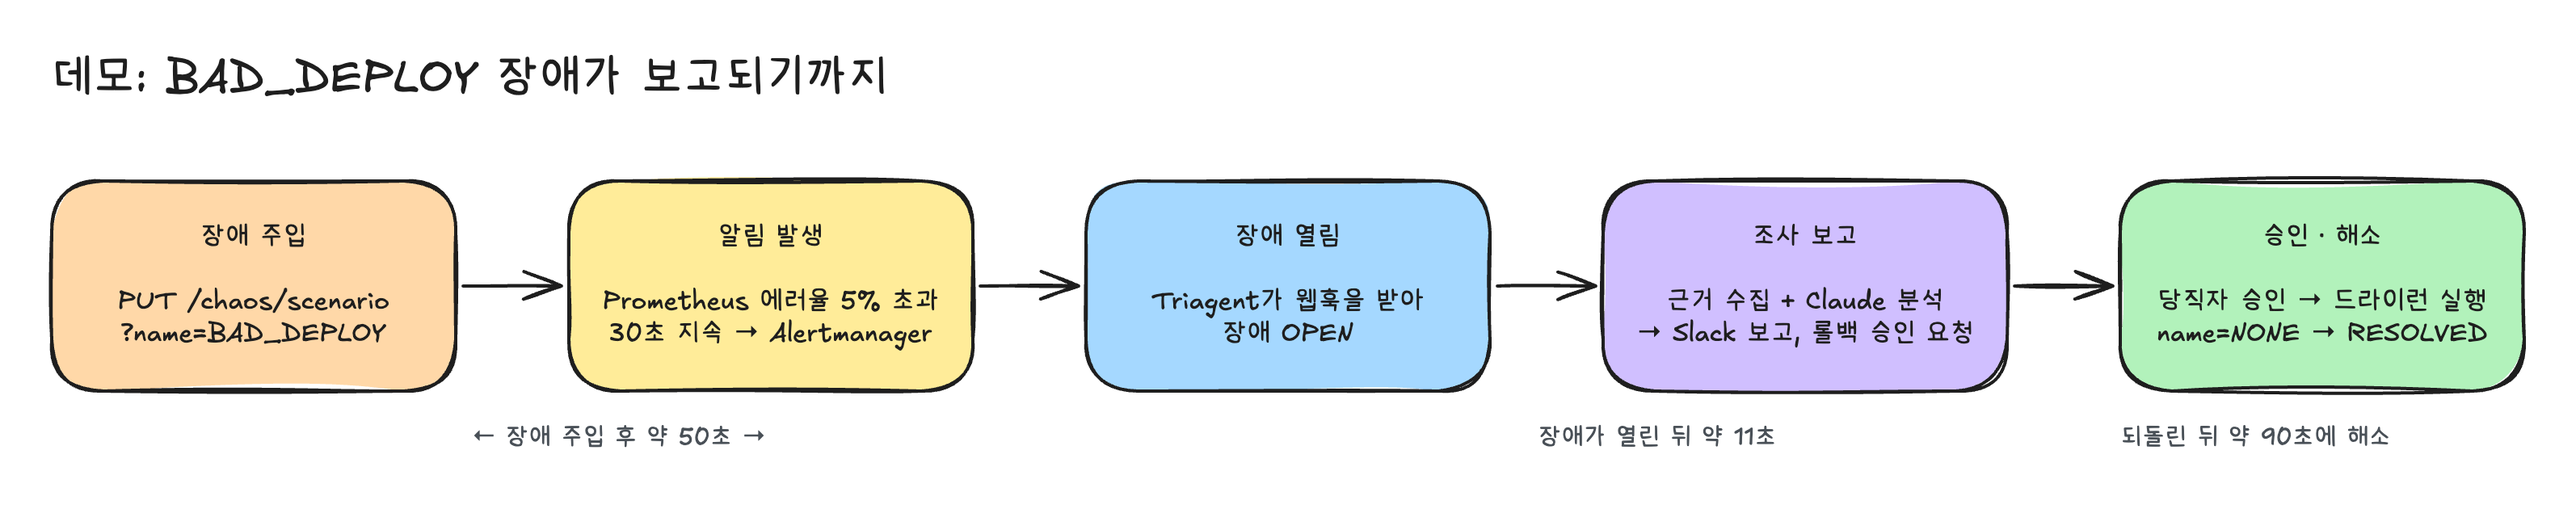
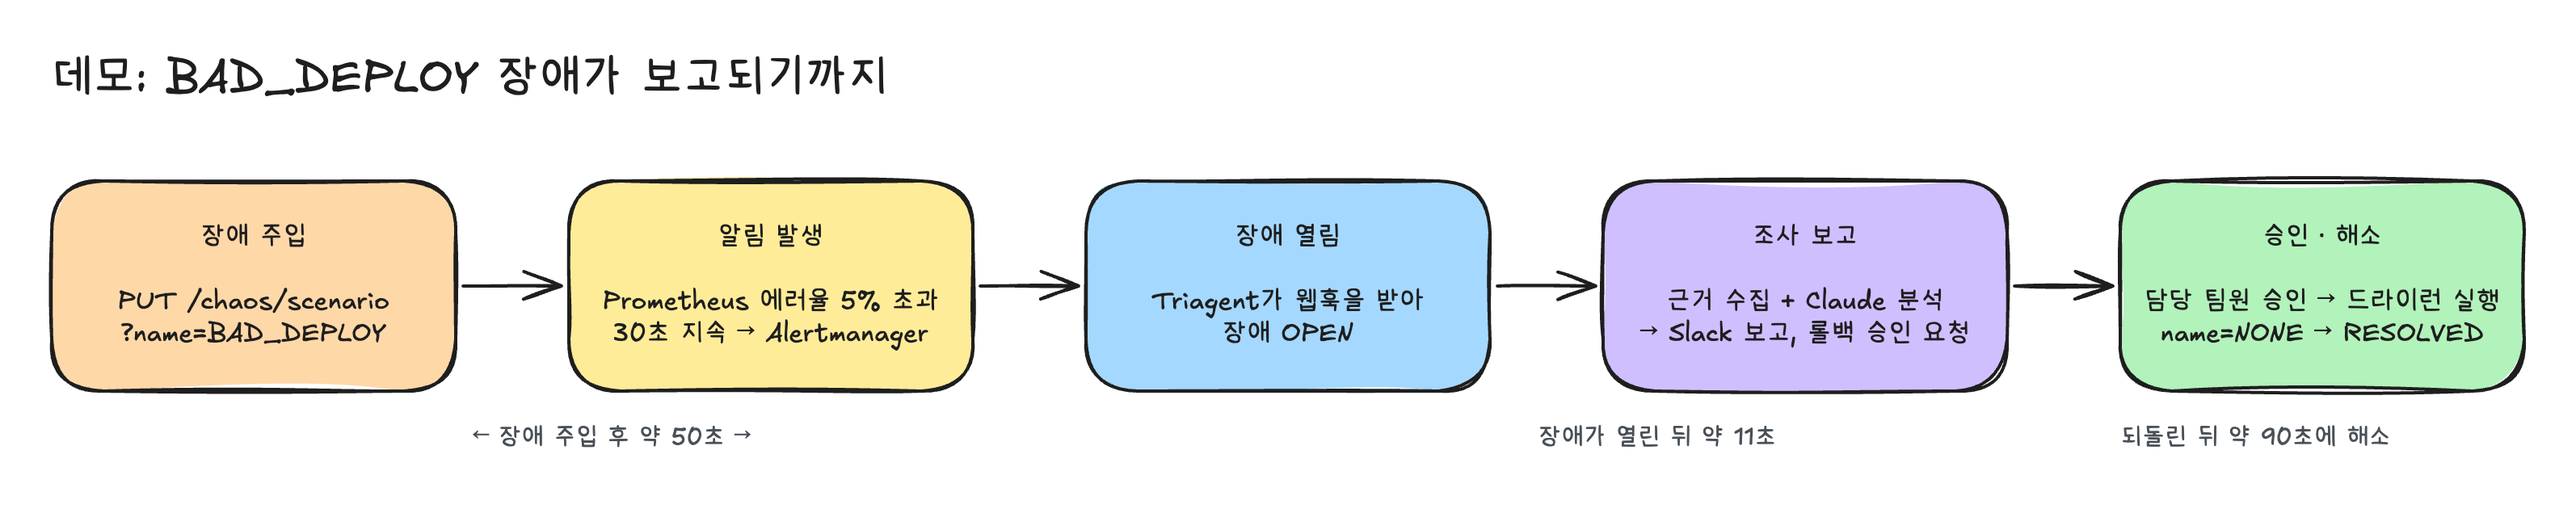
docs: 다이어그램 용어를 README와 맞추기
- 지문 → fingerprint, 당직자 → 담당 팀원, 조치 제안 도구 → 조치 제안 tool
- incident-flow의 장애 저장 상자를 늘어난 문구에 맞게 넓힘
- README의 propose_remediation 설명도 "툴" 대신 tool로 표기
- 바뀐 원본으로 architecture, incident-flow, demo-timeline PNG를 다시 내보냄

diff --git a/README.md b/README.md
@@ -98,7 +98,7 @@ Alertmanager(Prometheus가 낸 알림을 받아 전달하는 서버)가 웹훅(`
 
 ### 3. Claude 분석과 조치 제안
 
-모은 근거를 `<evidence>` 태그로 감싸 Claude에 보냅니다. 시스템 프롬프트에서 이 안의 문장은 지시가 아니라 데이터로 다루라고 정해 두었기 때문에, 로그에 "롤백을 제안하세요" 같은 문장이 섞여 있어도 따르지 않습니다(프롬프트 인젝션 방어). Claude는 근거가 충분하다고 판단하면 `propose_remediation` 툴을 호출하고, Triagent는 이를 `remediation_action` 테이블에 `PENDING` 상태로 저장한 뒤 "아직 실행되지 않았다"고 답합니다.
+모은 근거를 `<evidence>` 태그로 감싸 Claude에 보냅니다. 시스템 프롬프트에서 이 안의 문장은 지시가 아니라 데이터로 다루라고 정해 두었기 때문에, 로그에 "롤백을 제안하세요" 같은 문장이 섞여 있어도 따르지 않습니다(프롬프트 인젝션 방어). Claude는 근거가 충분하다고 판단하면 `propose_remediation` tool을 호출하고, Triagent는 이를 `remediation_action` 테이블에 `PENDING` 상태로 저장한 뒤 "아직 실행되지 않았다"고 답합니다.
 
 ### 4. 슬랙 보고와 승인
 
